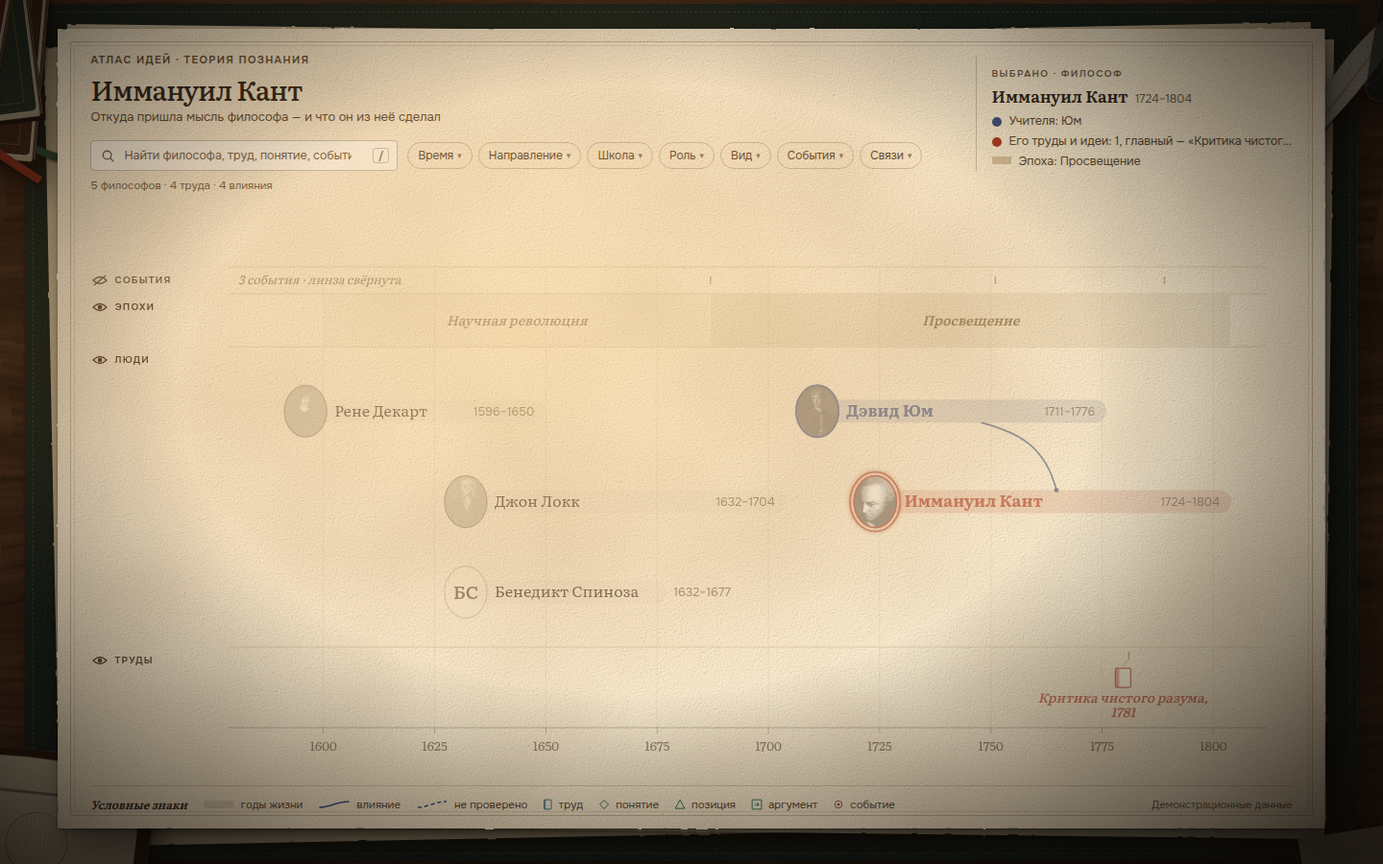
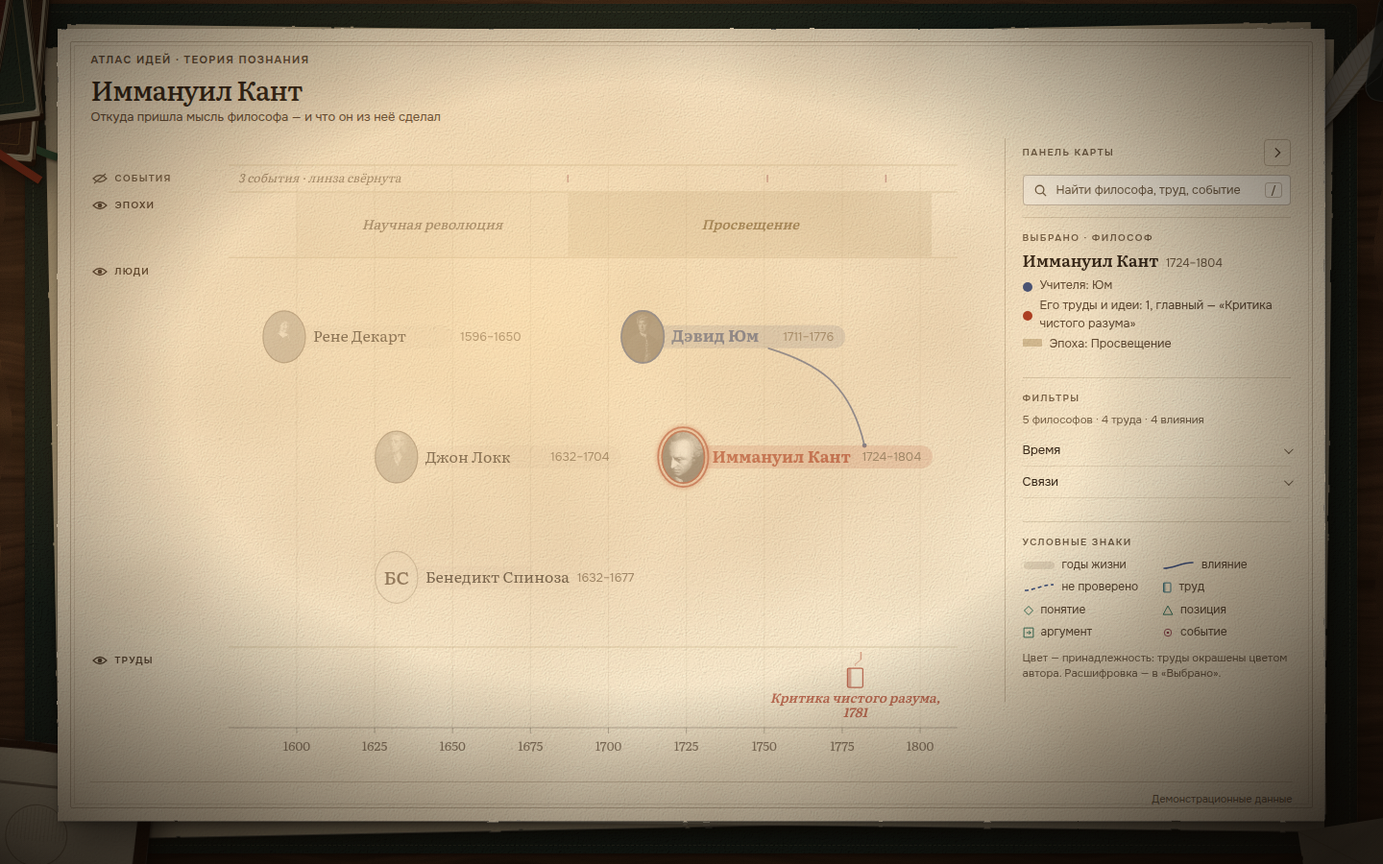
design(v6): правая сворачиваемая панель — поиск, выбрано, фильтры, знаки
- раскладка как в GraphPage: карта слева, панель справа
- фильтры столбиком, раскрывающимися секциями со счётчиками и сбросом
- панель сворачивается в рельс со значками, карта забирает ширину (?panel=0)
- события без подписи — засечка на кромке страты

diff --git a/docs/design/system/previews/graph-f02-lenses/desk-chart.js b/docs/design/system/previews/graph-f02-lenses/desk-chart.js
@@ -162,7 +162,7 @@
 
     const LANES=packPeople(dense?4:22),laneMin=dense?27:56;
     const wp=planWorks(R,dense?(R?4:3):2),ep=planEvents(R,dense?4:2);
-    const need={people:LANES*laneMin+34,works:22+Math.max(wp.rows,1)*W_ROW+6,events:12+Math.max(ep.rows,1)*E_ROW+4};
+    const need={people:LANES*laneMin+34,works:22+Math.max(wp.rows,1)*W_ROW+6,events:20+Math.max(ep.rows,1)*E_ROW+4};
     const bands=layoutBands(need),H=bands.works.bot+AXIS_H;
     svg.setAttribute('viewBox',`0 0 ${W} ${H}`);
 
@@ -201,8 +201,9 @@
     if(!bv.collapsed){
       ep.items.forEach(e=>{const act=!R||!R.events||R.events.has(e.id),g=S('g',{class:act?'':'dim-soft'});L.events.append(g);hit(g,e.id,`Событие: ${e.year}, ${e.label}`);
         g.append(S('title',{},`${e.year} — ${e.label}`));
-        const ry=bv.top+12+Math.max(0,e.row)*E_ROW;
-        if(e.row<0){g.append(S('circle',{cx:e.x,cy:ry,r:3.5,class:'event-ring'}));g.append(S('rect',{x:e.x-7,y:ry-7,width:14,height:14,fill:'transparent'}));return;}
+        const ry=bv.top+20+Math.max(0,e.row)*E_ROW;
+        // без подписи — засечка на кромке страты, вне рядов с текстом
+        if(e.row<0){g.append(S('circle',{cx:e.x,cy:bv.top+5,r:2.5,class:'event-ring'}));g.append(S('rect',{x:e.x-6,y:bv.top,width:12,height:11,fill:'transparent'}));return;}
         g.append(S('circle',{cx:e.bx,cy:ry,r:5,class:'event-ring'+(state.sel===e.id?' on':'')}));g.append(S('circle',{cx:e.bx,cy:ry,r:1.8,fill:'var(--history)'}));
         const t=S('text',{x:e.side>0?e.bx+12:e.bx-12,y:ry+4.5,class:'event-text','text-anchor':e.side>0?'start':'end'});t.append(S('tspan',{class:'event-year'},e.year+' '));t.append(document.createTextNode(e.label));g.append(t);});}
     else V.events.forEach(e=>L.events.append(S('rect',{x:X(e.year)-.75,y:bv.top+COLL/2-4,width:1.5,height:8,class:'event-tick'})));
@@ -344,22 +345,16 @@
     if(h1)h1.textContent=title.replace(/[«»]/g,'');
   }
 
-  /* панель поиска и фильтров — пока кадр: состояние берётся из адреса (?q= &open= &groups= &from= &to= …) */
+  /* правая панель (как aside в GraphPage): поиск, «Выбрано», фильтры столбиком, условные знаки.
+     Поиск и фильтры — пока кадр: состояние из адреса (?q= &from= &to= &groups= &roles= &kinds= &ekinds= &verified=). */
   function renderTools(){
-    const host=document.querySelector('.tools');if(!host)return;
-    const q=(Q.get('q')||'').trim(),open=Q.get('open');
-    const gsel=k=>ALL.groups.filter(g=>g.kind===k&&filter.groups.includes(g.id)).map(g=>g.label);
-    const chip=(key,label,val)=>`<button type="button" class="chip${val?' on':''}${open===key?' open':''}" data-filter="${key}">${label}${val?`: <b>${val}</b><span class="x" aria-label="Снять">×</span>`:' <span class="caret">▾</span>'}</button>`;
-    const time=filter.from||filter.to?`${Y0}–${Y1}`:'';
-    const kinds=(lbl,arr)=>arr.map(k=>lbl[k]).join(', ');
-    let html=`<label class="search${q?' active':''}"><svg viewBox="0 0 16 16" aria-hidden="true"><circle cx="7" cy="7" r="4.6"/><path d="M10.4 10.4 L14 14"/></svg><input type="search" placeholder="Найти философа, труд, понятие, событие" value="${q}" aria-label="Поиск по карте"><kbd>/</kbd></label>`;
-    html+=`<div class="chips" role="group" aria-label="Фильтры">${chip('time','Время',time)}${chip('dir','Направление',gsel('direction').join(', '))}${chip('school','Школа',gsel('school').join(', '))}${chip('role','Роль',kinds(DS.roleLabels||{},filter.roles))}${chip('kind','Вид',kinds(DS.kindLabels||{},filter.kinds))}${chip('ekind','События',kinds(DS.eventKindLabels||{},filter.ekinds))}${chip('verified','Связи',filter.verified?'только проверенные':'')}</div>`;
-    html+=`<div class="shown">${filtered?`Показано ${V.people.length} из ${plural(ALL.people.length,['философа','философов','философов'])} · ${V.works.length} из ${plural(ALL.works.length,['труда','трудов','трудов'])}`:`${plural(ALL.people.length,F.people)} · ${plural(ALL.works.length,F.works)} · ${plural(ALL.influences.length,F.links)}`}</div>`;
-    // выпадающий список поиска: по типам; найденное вне фильтра — пометка
+    const host=document.querySelector('.tools'),fh=document.querySelector('.filters');if(!host)return;
+    const q=(Q.get('q')||'').trim(),esc=s=>s.replace(/[.*+?^${}()|[\]\\]/g,'\\$&');
+    let html=`<label class="search${q?' active':''}"><svg viewBox="0 0 16 16" aria-hidden="true"><circle cx="7" cy="7" r="4.6"/><path d="M10.4 10.4 L14 14"/></svg><input type="search" placeholder="Найти философа, труд, событие" value="${q}" aria-label="Поиск по карте"><kbd>/</kbd></label>`;
     if(q){const m=s=>s.toLowerCase().includes(q.toLowerCase()),inV=new Set([...V.people,...V.works].map(x=>x.id));
       const grp=(title,arr,fmt)=>arr.length?`<div class="dd-group">${title}</div>${arr.slice(0,4).map(fmt).join('')}`:'';
       const row=(icon,main,sub,id)=>`<div class="dd-row${inV.has(id)||!id?'':' out'}"><span class="dd-ico">${icon}</span><span class="dd-main">${main}</span><span class="dd-sub">${sub}${id&&!inV.has(id)?' · скрыт фильтром':''}</span></div>`;
-      const hl=s=>s.replace(new RegExp(`(${q.replace(/[.*+?^${}()|[\]\\]/g,'\\$&')})`,'i'),'<mark>$1</mark>');
+      const hl=s=>s.replace(new RegExp(`(${esc(q)})`,'i'),'<mark>$1</mark>');
       html+=`<div class="dropdown search-dd" role="listbox">${
         grp('Философы',ALL.people.filter(p=>m(p.name)),p=>row('●',hl(p.name),`${p.birth}–${p.death}`,p.id))+
         grp('Труды',ALL.works.filter(w=>w.kind==='work'&&m(w.title)),w=>row('▯',hl(`«${w.title}»`),`${byId[w.author].short}, ${w.year}`,w.id))+
@@ -367,11 +362,38 @@
         grp('События',ALL.events.filter(e=>m(e.label)),e=>row('◉',hl(e.label),String(e.year),null))+
         grp('Эпохи и направления',[...ALL.eras.filter(e=>m(e.label)),...ALL.groups.filter(g=>m(g.label))],o=>row('▭',hl(o.label),o.from?`${o.from}–${o.to}`:(o.kind==='school'?'школа':'направление'),null))
       }<div class="dd-foot">↑↓ — выбрать · Enter — показать на карте</div></div>`;}
-    // открытое меню фильтра: варианты с количеством
-    if(open==='dir'||open==='school'){const kind=open==='dir'?'direction':'school';
-      html+=`<div class="dropdown filter-dd" data-for="${open}">${ALL.groups.filter(g=>g.kind===kind).map(g=>`<label class="dd-check"><input type="checkbox"${filter.groups.includes(g.id)?' checked':''}><span>${g.label}</span><span class="dd-count">${g.members.length}</span></label>`).join('')}<div class="dd-foot">Несколько значений — «или»</div></div>`;}
     host.innerHTML=html;
-    const dd=host.querySelector('.filter-dd');if(dd){const c=host.querySelector(`.chip[data-filter="${open}"]`),hb=host.getBoundingClientRect(),cb=c.getBoundingClientRect();dd.style.left=(cb.left-hb.left)+'px';dd.style.top=(cb.bottom-hb.top+6)+'px';}
+    if(!fh)return;
+    // фильтры столбиком: каждый фасет — раскрывающаяся секция со списком и количеством
+    const cnt=(arr,f)=>arr.filter(f).length,checked=b=>b?' checked':'';
+    const box=(label,n,on)=>`<label class="dd-check"><input type="checkbox"${checked(on)}><span>${label}</span><span class="dd-count">${n}</span></label>`;
+    const facet=(key,title,val,body,open)=>`<details class="facet${val?' on':''}"${open||val?' open':''}><summary><span>${title}</span>${val?`<b>${val}</b>`:''}</summary><div class="facet-body">${body}</div></details>`;
+    const groups=k=>ALL.groups.filter(g=>g.kind===k),gval=k=>{const n=groups(k).filter(g=>filter.groups.includes(g.id)).length;return n?String(n):'';};
+    const lbl=(m,arr)=>Object.entries(m||{}).map(([k,l])=>box(l,cnt(arr,x=>(x.roles||[x.kind]).includes(k)),(filter.roles.includes(k)||filter.kinds.includes(k)||filter.ekinds.includes(k))));
+    const nAct=[filter.from||filter.to,gval('direction'),gval('school'),filter.roles.length,filter.kinds.length,filter.ekinds.length,filter.verified].filter(Boolean).length;
+    fh.innerHTML=`<div class="sec-row"><h2 class="sec-h">Фильтры${nAct?` <span class="badge">${nAct}</span>`:''}</h2>${nAct?'<button type="button" class="link">Сбросить</button>':''}</div>
+      <p class="shown">${filtered?`Показано ${V.people.length} из ${plural(ALL.people.length,['философа','философов','философов'])} · ${V.works.length} из ${plural(ALL.works.length,['труда','трудов','трудов'])}`:`${plural(ALL.people.length,F.people)} · ${plural(ALL.works.length,F.works)} · ${plural(ALL.influences.length,F.links)}`}</p>`+
+      facet('time','Время',filter.from||filter.to?`${Y0}–${Y1}`:'',`<div class="range"><label>с <input type="number" value="${Y0}" aria-label="С года"></label><label>по <input type="number" value="${Y1}" aria-label="По год"></label></div><p class="facet-hint">или рамка «Окно времени» под шкалой</p>`)+
+      (ALL.groups.length?facet('dir','Направление',gval('direction'),groups('direction').map(g=>box(g.label,g.members.length,filter.groups.includes(g.id))).join(''),Q.get('open')==='dir')+
+      facet('school','Школа',gval('school'),groups('school').map(g=>box(g.label,g.members.length,filter.groups.includes(g.id))).join('')):'')+
+      (DS.roleLabels?facet('role','Роль',filter.roles.length?String(filter.roles.length):'',lbl(DS.roleLabels,ALL.people).join('')):'')+
+      (DS.kindLabels?facet('kind','Вид',filter.kinds.length?String(filter.kinds.length):'',lbl(DS.kindLabels,ALL.works).join('')):'')+
+      (DS.eventKindLabels?facet('ekind','События',filter.ekinds.length?String(filter.ekinds.length):'',lbl(DS.eventKindLabels,ALL.events).join('')):'')+
+      facet('verified','Связи',filter.verified?'проверенные':'',`<label class="dd-check"><input type="checkbox"${checked(filter.verified)}><span>Только проверенные человеком</span><span class="dd-count">${cnt(ALL.influences,e=>e.verified!==false)}</span></label><p class="facet-hint">Достроенные LLM — пунктиром</p>`);
+  }
+
+  /* сворачивание панели: карта забирает ширину; в свёрнутом виде — узкая полоса со значками */
+  const panel=document.getElementById('panel'),ws=document.querySelector('.workspace');
+  function setPanel(open){if(!panel)return;ws.classList.toggle('panel-collapsed',!open);const b=panel.querySelector('.panel-toggle');
+    b.setAttribute('aria-expanded',String(open));b.title=open?'Свернуть панель':'Развернуть панель';b.querySelector('.sr').textContent=b.title;draw();}
+  if(panel){
+    const rail=panel.querySelector('.panel-rail');
+    rail.innerHTML=[['search','Поиск','<circle cx="7" cy="7" r="4.6"/><path d="M10.4 10.4 L14 14"/>'],['sel','Выбрано','<circle cx="8" cy="8" r="5.5"/><circle cx="8" cy="8" r="2" class="f"/>'],['filter','Фильтры','<path d="M2 3 H14 L9.5 8.5 V13 L6.5 11.5 V8.5 Z"/>'],['legend','Условные знаки','<path d="M3 4 H13 M3 8 H13 M3 12 H9"/>']]
+      .map(([k,t,d])=>`<button type="button" class="rail-btn" data-k="${k}" title="${t}" tabindex="-1"><svg viewBox="0 0 16 16">${d}</svg></button>`).join('');
+    panel.querySelector('.panel-toggle').addEventListener('click',()=>setPanel(ws.classList.contains('panel-collapsed')));
+    rail.addEventListener('click',()=>setPanel(true));
+    if(Q.get('panel')==='0')ws.classList.add('panel-collapsed');
+    panel.querySelector('.panel-toggle').setAttribute('aria-expanded',String(Q.get('panel')!=='0'));
   }
 
   /* выбор: клик/Enter по философу, труду, событию, эпохе; клик по полю или Esc — снять */
@@ -380,7 +402,9 @@
   svg.addEventListener('keydown',ev=>{const id=pick(ev.target);if(id&&(ev.key==='Enter'||ev.key===' ')){ev.preventDefault();state.sel=id;draw();}});
   document.addEventListener('keydown',ev=>{if(ev.key==='Escape'&&state.sel){state.sel=null;draw();}});
   window.desk={state,draw,select:id=>{state.sel=id;draw();},toggleLens:k=>{state.on[k]=!state.on[k];draw();},visible:V};
-  let rz;addEventListener('resize',()=>{clearTimeout(rz);rz=setTimeout(draw,120);});
+  let rz,lastW=0;addEventListener('resize',()=>{clearTimeout(rz);rz=setTimeout(draw,120);});
+  // карта перерисовывается, когда меняется её ширина (сворачивание панели, окно)
+  if(window.ResizeObserver)new ResizeObserver(()=>{const w=Math.round(svg.getBoundingClientRect().width);if(lastW&&Math.abs(w-lastW)>2){clearTimeout(rz);rz=setTimeout(draw,60);}lastW=w;}).observe(svg.parentNode);
   document.fonts.ready.then(draw);
   draw();
 })();

diff --git a/docs/design/system/previews/graph-f02-lenses/desk.html b/docs/design/system/previews/graph-f02-lenses/desk.html
@@ -94,27 +94,45 @@
           <div class="eyebrow">АТЛАС ИДЕЙ · ТЕОРИЯ ПОЗНАНИЯ</div>
           <h1>Иммануил Кант</h1>
           <p class="subtitle">Откуда пришла мысль философа — и что он из неё сделал</p>
-          <div class="tools"></div>
         </div>
-        <aside class="selnote" aria-live="polite"></aside>
       </header>
-      <div class="chart">
-        <div class="gutter" role="group" aria-label="Линзы: свернуть или развернуть страту"></div>
-        <svg id="svg" xmlns="http://www.w3.org/2000/svg" role="img" aria-label="Синхронологическая карта: события, эпохи, философы и их труды на оси времени"></svg>
+      <!-- рабочая область: карта слева, панель справа (как в GraphPage: холст + aside 22.5rem); панель сворачивается -->
+      <div class="workspace">
+        <div class="chart">
+          <div class="gutter" role="group" aria-label="Линзы: свернуть или развернуть страту"></div>
+          <svg id="svg" xmlns="http://www.w3.org/2000/svg" role="img" aria-label="Синхронологическая карта: события, эпохи, философы и их труды на оси времени"></svg>
+        </div>
+        <aside class="panel" id="panel" aria-label="Поиск, выбранное, фильтры и условные знаки">
+          <div class="panel-bar">
+            <span class="panel-title">Панель карты</span>
+            <button type="button" class="panel-toggle" aria-expanded="true" aria-controls="panel-body" title="Свернуть панель">
+              <svg viewBox="0 0 16 16" aria-hidden="true"><path d="M6 3 L11 8 L6 13"/></svg><span class="sr">Свернуть панель</span>
+            </button>
+          </div>
+          <div class="panel-rail" aria-hidden="true"></div>
+          <div class="panel-body" id="panel-body">
+            <div class="tools"></div>
+            <section class="selnote panel-sec" aria-live="polite"></section>
+            <section class="filters panel-sec" aria-label="Фильтры"></section>
+            <section class="legend panel-sec" aria-label="Условные знаки">
+              <h2 class="sec-h">Условные знаки</h2>
+              <div class="legend-grid">
+                <span><svg viewBox="0 0 34 12"><rect x="1" y="2" width="32" height="8" rx="4" fill="var(--graph-ink-secondary)" fill-opacity=".14"/></svg>годы жизни</span>
+                <span><svg viewBox="0 0 34 12"><path d="M2 9 C12 9 20 3 32 3" fill="none" stroke="#3c4d78" stroke-width="1.6" stroke-linecap="round"/></svg>влияние</span>
+                <span><svg viewBox="0 0 34 12"><path d="M2 9 C12 9 20 3 32 3" fill="none" stroke="#3c4d78" stroke-width="1.6" stroke-dasharray="4 3"/></svg>не проверено</span>
+                <span><svg viewBox="0 0 14 16"><rect x="2" y="1.5" width="10" height="13" rx="1" fill="none" stroke="var(--texts)" stroke-width="1.2"/><rect x="2" y="1.5" width="2.6" height="13" fill="var(--texts)" fill-opacity=".55"/></svg>труд</span>
+                <span><svg viewBox="0 0 16 16"><path d="M8 2 L14 8 L8 14 L2 8 Z" fill="none" stroke="var(--ideas)" stroke-width="1.2"/></svg>понятие</span>
+                <span><svg viewBox="0 0 16 16"><path d="M8 1.5 L14.5 13.5 L1.5 13.5 Z" fill="none" stroke="var(--ideas)" stroke-width="1.2"/></svg>позиция</span>
+                <span><svg viewBox="0 0 16 16"><path d="M1.5 1.5 H14.5 V14.5 H1.5 Z M5 8 H11 M8.5 5.5 L11 8 L8.5 10.5" fill="none" stroke="var(--ideas)" stroke-width="1.2"/></svg>аргумент</span>
+                <span><svg viewBox="0 0 16 16"><circle cx="8" cy="8" r="5" fill="none" stroke="var(--history)" stroke-width="1.2"/><circle cx="8" cy="8" r="1.8" fill="var(--history)"/></svg>событие</span>
+              </div>
+              <p class="legend-note">Цвет — принадлежность: труды окрашены цветом автора. Расшифровка — в «Выбрано».</p>
+            </section>
+          </div>
+        </aside>
       </div>
       <footer class="legend-row">
-        <div class="legend" aria-label="Условные знаки">
-          <span class="legend-title">Условные знаки</span>
-          <span><svg viewBox="0 0 34 12"><rect x="1" y="2" width="32" height="8" rx="4" fill="var(--graph-ink-secondary)" fill-opacity=".14"/></svg>годы жизни</span>
-          <span><svg viewBox="0 0 34 12"><path d="M2 9 C12 9 20 3 32 3" fill="none" stroke="#3c4d78" stroke-width="1.6" stroke-linecap="round"/></svg>влияние</span>
-          <span><svg viewBox="0 0 34 12"><path d="M2 9 C12 9 20 3 32 3" fill="none" stroke="#3c4d78" stroke-width="1.6" stroke-dasharray="4 3"/></svg>не проверено</span>
-          <span><svg viewBox="0 0 14 16"><rect x="2" y="1.5" width="10" height="13" rx="1" fill="none" stroke="var(--texts)" stroke-width="1.2"/><rect x="2" y="1.5" width="2.6" height="13" fill="var(--texts)" fill-opacity=".55"/></svg>труд</span>
-          <span><svg viewBox="0 0 16 16"><path d="M8 2 L14 8 L8 14 L2 8 Z" fill="none" stroke="var(--ideas)" stroke-width="1.2"/></svg>понятие</span>
-          <span><svg viewBox="0 0 16 16"><path d="M8 1.5 L14.5 13.5 L1.5 13.5 Z" fill="none" stroke="var(--ideas)" stroke-width="1.2"/></svg>позиция</span>
-          <span><svg viewBox="0 0 16 16"><path d="M1.5 1.5 H14.5 V14.5 H1.5 Z M5 8 H11 M8.5 5.5 L11 8 L8.5 10.5" fill="none" stroke="var(--ideas)" stroke-width="1.2"/></svg>аргумент</span>
-          <span><svg viewBox="0 0 16 16"><circle cx="8" cy="8" r="5" fill="none" stroke="var(--history)" stroke-width="1.2"/><circle cx="8" cy="8" r="1.8" fill="var(--history)"/></svg>событие</span>
-        </div>
-        <div class="edition-note">Демонстрационные данные · Спиноза — демо-персона</div>
+        <div class="edition-note">Демонстрационные данные</div>
       </footer>
     </article>
 

diff --git a/docs/design/system/previews/graph-f02-lenses/desk.css b/docs/design/system/previews/graph-f02-lenses/desk.css
@@ -258,3 +258,59 @@ rect.focus-ring{fill:none;stroke:var(--graph-focus);stroke-width:2;visibility:hi
 .k-unv{border-top:1.6px dashed #3c4d78;height:0;top:-4px}
 .selnote li{align-items:center}
 .era-dim .era-text{fill:var(--graph-ink-muted)}
+/* v6: правая панель по образцу GraphPage (холст + aside), сворачиваемая */
+.scene{overflow:clip}                      /* clip, а не hidden: иначе липкая панель не липнет */
+.scene .head{height:auto}
+.scene .chart{margin-top:0}
+.workspace{display:grid;grid-template-columns:minmax(0,1fr) 300px;gap:22px;align-items:start;margin-top:12px}
+.workspace.panel-collapsed{grid-template-columns:minmax(0,1fr) 36px}
+.panel{position:sticky;top:16px;padding:0 2px 8px 18px;border-left:1px solid rgba(90,64,36,.25);
+  font:400 12.5px/1.45 Onest,Arial,sans-serif;color:var(--graph-ink-secondary);scrollbar-width:thin}
+.panel-bar{display:flex;align-items:center;justify-content:space-between;gap:8px;height:30px;margin-bottom:8px}
+.panel-title{font:600 10px/14px Onest,Arial,sans-serif;letter-spacing:.14em;text-transform:uppercase;color:var(--graph-ink-muted)}
+.panel-toggle{width:28px;height:28px;display:grid;place-items:center;border:1px solid rgba(90,64,36,.28);border-radius:4px;background:none;color:var(--graph-ink-secondary);cursor:pointer}
+.panel-toggle:hover{background:rgba(90,64,36,.07)}
+.panel-toggle:focus-visible,.rail-btn:focus-visible,.facet summary:focus-visible{outline:2px solid var(--graph-focus);outline-offset:1px}
+.panel-toggle svg{width:14px;height:14px;fill:none;stroke:currentColor;stroke-width:1.6;stroke-linecap:round;stroke-linejoin:round}
+.sr{position:absolute;width:1px;height:1px;overflow:hidden;clip:rect(0 0 0 0);white-space:nowrap}
+.panel-rail{display:none}
+.panel-collapsed .panel{padding-left:6px;overflow:visible}
+.panel-collapsed .panel-title,.panel-collapsed .panel-body{display:none}
+.panel-collapsed .panel-toggle svg{transform:rotate(180deg)}
+.panel-collapsed .panel-rail{display:grid;gap:6px;justify-items:start}
+.rail-btn{width:28px;height:28px;display:grid;place-items:center;border:0;border-radius:4px;background:none;color:var(--graph-ink-muted);cursor:pointer}
+.rail-btn:hover{background:rgba(90,64,36,.07);color:var(--graph-ink)}
+.rail-btn svg{width:15px;height:15px;fill:none;stroke:currentColor;stroke-width:1.4}
+.rail-btn svg .f{fill:currentColor;stroke:none}
+.panel .tools{display:block;margin:0;position:relative}
+.panel .search{width:100%;box-sizing:border-box}
+.panel .dropdown.search-dd{top:38px;left:auto;right:0;width:380px;max-width:none}
+.panel-sec{padding:14px 0 12px;border-top:1px solid rgba(90,64,36,.18);margin-top:12px}
+.sec-h{margin:0 0 8px;font:600 10px/14px Onest,Arial,sans-serif;letter-spacing:.14em;text-transform:uppercase;color:var(--graph-ink-muted)}
+.sec-row{display:flex;align-items:baseline;justify-content:space-between}
+.badge{display:inline-block;min-width:16px;padding:0 5px;border-radius:8px;background:#3c4d78;color:#fbf5e6;font:600 10px/16px Onest,Arial,sans-serif;letter-spacing:0;text-align:center}
+.link{border:0;background:none;padding:0;font:inherit;font-size:12px;color:#2c3a5e;text-decoration:underline;text-decoration-color:rgba(44,58,94,.4);cursor:pointer}
+.panel .shown{margin:0 0 6px;white-space:normal}
+.facet{border-bottom:1px solid rgba(90,64,36,.12)}
+.facet summary{display:flex;align-items:center;gap:8px;min-height:32px;cursor:pointer;list-style:none;color:var(--graph-ink);font-size:13px}
+.facet summary::-webkit-details-marker{display:none}
+.facet summary::after{content:"";margin-left:auto;width:6px;height:6px;border-right:1.4px solid var(--graph-ink-muted);border-bottom:1.4px solid var(--graph-ink-muted);transform:rotate(45deg) translateY(-2px);flex:none}
+.facet[open] summary::after{transform:rotate(-135deg) translateY(-1px)}
+.facet summary b{font-weight:600;color:#2c3a5e;background:rgba(60,77,120,.1);border-radius:8px;padding:0 7px;font-size:11.5px}
+.facet-body{padding:0 0 8px}
+.facet .dd-check{padding:3px 0;font-size:12.5px}
+.facet-hint{margin:4px 0 0;font-size:11px;color:var(--graph-ink-muted)}
+.range{display:flex;gap:10px}
+.range label{display:flex;align-items:center;gap:6px;font-size:12px}
+.range input{width:64px;height:26px;box-sizing:border-box;padding:0 6px;border:1px solid rgba(90,64,36,.3);border-radius:3px;background:rgba(255,252,244,.6);font:inherit;color:var(--graph-ink)}
+/* «Выбрано» в панели */
+.scene .panel .selnote{width:auto;margin:12px 0 0;padding:14px 0 12px;border-left:0;flex:none}
+.panel .selnote li span{white-space:normal}
+.panel .legend-names{gap:3px 10px}
+/* условные знаки столбиком */
+.legend-grid{display:grid;grid-template-columns:1fr 1fr;gap:6px 12px}
+.legend-grid>span{display:flex;align-items:center;gap:7px;font-size:12px;color:var(--graph-ink-secondary)}
+.legend-grid svg{height:12px;width:auto;flex:none}
+.legend-note{margin:10px 0 0;font-size:11.5px;color:var(--graph-ink-muted)}
+.panel .legend{display:block}
+.scene .legend-row{justify-content:flex-end;margin-top:10px}

diff --git a/docs/design/system/previews/graph-f02-lenses/README.md b/docs/design/system/previews/graph-f02-lenses/README.md
@@ -37,11 +37,11 @@
 с именем внутри, медальон только у выбранного, связи — по выбору.
 
 Выбрать можно философа, труд, событие, эпоху (и направление — `?sel=g-emp`). Цвет = принадлежность:
-труды окрашены цветом автора, линии — только влияния между людьми. Поиск и фильтры — пока кадр,
-состояние из адреса: `?data=dense&q=крит`, `?data=dense&from=1630&to=1800&groups=g-emp,g-rat&open=dir`.
+труды окрашены цветом автора, линии — только влияния между людьми. Поиск, «Выбрано», фильтры и условные знаки — в правой панели (как aside в GraphPage); панель сворачивается
+в узкий рельс (`?panel=0`). Поиск и фильтры — пока кадр, состояние из адреса: `?data=dense&q=крит`, `?data=dense&from=1630&to=1800&groups=g-emp,g-rat&open=dir`.
 
 Файлы: `desk.html` · `desk.css` · `desk-data.js` · `desk-chart.js` (граф от данных и состояния) · `desk.js` (предметы) ·
-`desk-light.png`/`desk-dark.png` · кадры v5 — `cycle/v5-dense-*.jpg`. Направление — [graph-desk-scene-direction.md](../../../features/graph-desk-scene-direction.md),
+`desk-light.png`/`desk-dark.png` · кадры v6 — `cycle/v6-*.jpg`. Направление — [graph-desk-scene-direction.md](../../../features/graph-desk-scene-direction.md),
 журнал доводки — [design-cycle-log.md](../../../features/graph-page-qa/design-cycle-log.md).
 Проверки (Playwright + Chromium): `cycle/check.js` (рендер, геометрия), `cycle/ixn.js` (интеракции),
 `cycle/audit.js` (контраст), `cycle/dense.js` и `cycle/frames.js` (кадры); запуск — `node cycle/<скрипт>.js` из папки с `playwright-core`.

diff --git a/docs/design/features/graph-desk-scene-direction.md b/docs/design/features/graph-desk-scene-direction.md
@@ -67,3 +67,7 @@
 - **Поиск** находит и выбирает, не фильтрует. Подсказки по типам; найденное вне фильтра —
   предложение снять фильтр.
 - **Поиск и фильтры — пока только кадр** для согласования вида (состояние задаётся в адресе).
+
+**Панель (v6, 2026-11-18).** Поиск, «Выбрано», фильтры и условные знаки — в правой панели листа по образцу
+`GraphPage` (холст + aside). Фильтры столбиком, раскрывающимися секциями. Панель сворачивается в рельс со значками,
+карта забирает ширину.
